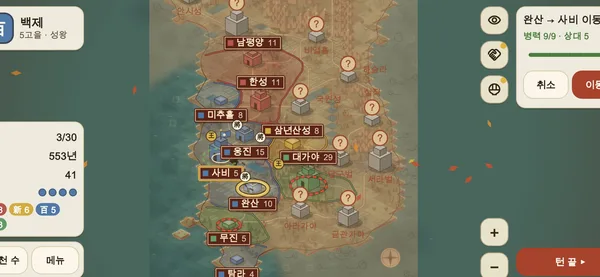
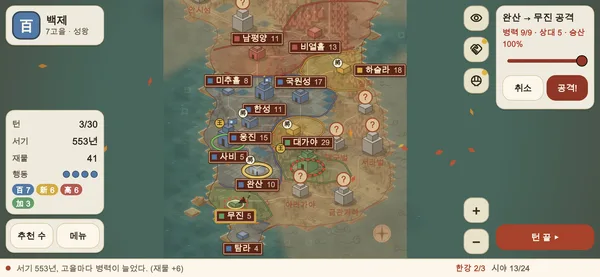
release: 1.0.0+30 개발소식

diff --git a/ko/releases/index.html b/ko/releases/index.html
@@ -61,6 +61,16 @@
       <p class="callout">아직 출시 전입니다. 이 페이지는 TestFlight 로 올라가는 개발 빌드마다 바뀐 점을 플레이어가 알아보기 쉬운 말로 적습니다. 최신 빌드가 맨 위입니다.</p>
       <div class="rel-list">
       <article class="rel">
+        <h2 class="rel__head"><span class="rel__build">1.0.0+30</span></h2>
+        <p class="rel__at">2026-10-29 15:47 KST</p>
+        <ul>
+          <li>판 결과 · 내 장수 카드 · 명장 초상을 이미지로 만들어 공유할 수 있어요. 결과 창 · 카드 보기 · 열전에서 「공유하기」를 누르면 돼요. 이미지는 이 기기 안에서만 만들어요.</li>
+          <li>준비 중인 551년 새 판에 고유한 승리 조건이 생겼어요. 한성 · 미추홀 · 국원성 세 고을을 빼앗아 3라운드 내리 지키면 이기고, 처음 쥔 고구려는 끝까지 지키면 이겨요. 소식 줄에서 진행을 볼 수 있어요.</li>
+          <li>다른 기기에서 이어 하기를 위한 저장 맞추기 기반을 넣었어요(아직 꺼 둔 상태예요).</li>
+          <li>새 문구를 11개 언어 모두에 넣었어요.</li>
+        </ul>
+      </article>
+      <article class="rel">
         <h2 class="rel__head"><span class="rel__build">1.0.0+29</span></h2>
         <p class="rel__at">2026-10-29 15:00 KST</p>
         <ul>

diff --git a/de/releases/index.html b/de/releases/index.html
@@ -62,6 +62,16 @@
       <p class="callout">Iltonggi is not released yet. This page lists, in plain words, what changed in each development build we send to TestFlight. The newest build is at the top.</p>
       <div class="rel-list">
       <article class="rel">
+        <h2 class="rel__head"><span class="rel__build">1.0.0+30</span></h2>
+        <p class="rel__at">2026-10-29 15:47 KST</p>
+        <ul>
+          <li>You can now share your game result, your general&#x27;s card, or a famous general&#x27;s portrait as an image. Tap &quot;Share&quot; in the results window, the card view, or the biography. The image is made only on your device.</li>
+          <li>The new game set in 551 now has its own victory condition: capture Hanseong, Michuhol and Gugwonseong and hold all three for 3 rounds in a row. Goguryeo, which starts with them, wins by keeping them to the end. Progress shows in the news bar.</li>
+          <li>We added the groundwork for continuing your game on another device (switched off for now).</li>
+          <li>The new messages are available in all 11 languages.</li>
+        </ul>
+      </article>
+      <article class="rel">
         <h2 class="rel__head"><span class="rel__build">1.0.0+29</span></h2>
         <p class="rel__at">2026-10-29 15:00 KST</p>
         <ul>

diff --git a/en/releases/index.html b/en/releases/index.html
@@ -61,6 +61,16 @@
       <p class="callout">Iltonggi is not released yet. This page lists, in plain words, what changed in each development build we send to TestFlight. The newest build is at the top.</p>
       <div class="rel-list">
       <article class="rel">
+        <h2 class="rel__head"><span class="rel__build">1.0.0+30</span></h2>
+        <p class="rel__at">2026-10-29 15:47 KST</p>
+        <ul>
+          <li>You can now share your game result, your general&#x27;s card, or a famous general&#x27;s portrait as an image. Tap &quot;Share&quot; in the results window, the card view, or the biography. The image is made only on your device.</li>
+          <li>The new game set in 551 now has its own victory condition: capture Hanseong, Michuhol and Gugwonseong and hold all three for 3 rounds in a row. Goguryeo, which starts with them, wins by keeping them to the end. Progress shows in the news bar.</li>
+          <li>We added the groundwork for continuing your game on another device (switched off for now).</li>
+          <li>The new messages are available in all 11 languages.</li>
+        </ul>
+      </article>
+      <article class="rel">
         <h2 class="rel__head"><span class="rel__build">1.0.0+29</span></h2>
         <p class="rel__at">2026-10-29 15:00 KST</p>
         <ul>

diff --git a/es/releases/index.html b/es/releases/index.html
@@ -62,6 +62,16 @@
       <p class="callout">Iltonggi is not released yet. This page lists, in plain words, what changed in each development build we send to TestFlight. The newest build is at the top.</p>
       <div class="rel-list">
       <article class="rel">
+        <h2 class="rel__head"><span class="rel__build">1.0.0+30</span></h2>
+        <p class="rel__at">2026-10-29 15:47 KST</p>
+        <ul>
+          <li>You can now share your game result, your general&#x27;s card, or a famous general&#x27;s portrait as an image. Tap &quot;Share&quot; in the results window, the card view, or the biography. The image is made only on your device.</li>
+          <li>The new game set in 551 now has its own victory condition: capture Hanseong, Michuhol and Gugwonseong and hold all three for 3 rounds in a row. Goguryeo, which starts with them, wins by keeping them to the end. Progress shows in the news bar.</li>
+          <li>We added the groundwork for continuing your game on another device (switched off for now).</li>
+          <li>The new messages are available in all 11 languages.</li>
+        </ul>
+      </article>
+      <article class="rel">
         <h2 class="rel__head"><span class="rel__build">1.0.0+29</span></h2>
         <p class="rel__at">2026-10-29 15:00 KST</p>
         <ul>

diff --git a/fr/releases/index.html b/fr/releases/index.html
@@ -62,6 +62,16 @@
       <p class="callout">Iltonggi is not released yet. This page lists, in plain words, what changed in each development build we send to TestFlight. The newest build is at the top.</p>
       <div class="rel-list">
       <article class="rel">
+        <h2 class="rel__head"><span class="rel__build">1.0.0+30</span></h2>
+        <p class="rel__at">2026-10-29 15:47 KST</p>
+        <ul>
+          <li>You can now share your game result, your general&#x27;s card, or a famous general&#x27;s portrait as an image. Tap &quot;Share&quot; in the results window, the card view, or the biography. The image is made only on your device.</li>
+          <li>The new game set in 551 now has its own victory condition: capture Hanseong, Michuhol and Gugwonseong and hold all three for 3 rounds in a row. Goguryeo, which starts with them, wins by keeping them to the end. Progress shows in the news bar.</li>
+          <li>We added the groundwork for continuing your game on another device (switched off for now).</li>
+          <li>The new messages are available in all 11 languages.</li>
+        </ul>
+      </article>
+      <article class="rel">
         <h2 class="rel__head"><span class="rel__build">1.0.0+29</span></h2>
         <p class="rel__at">2026-10-29 15:00 KST</p>
         <ul>

diff --git a/id/releases/index.html b/id/releases/index.html
@@ -62,6 +62,16 @@
       <p class="callout">Iltonggi is not released yet. This page lists, in plain words, what changed in each development build we send to TestFlight. The newest build is at the top.</p>
       <div class="rel-list">
       <article class="rel">
+        <h2 class="rel__head"><span class="rel__build">1.0.0+30</span></h2>
+        <p class="rel__at">2026-10-29 15:47 KST</p>
+        <ul>
+          <li>You can now share your game result, your general&#x27;s card, or a famous general&#x27;s portrait as an image. Tap &quot;Share&quot; in the results window, the card view, or the biography. The image is made only on your device.</li>
+          <li>The new game set in 551 now has its own victory condition: capture Hanseong, Michuhol and Gugwonseong and hold all three for 3 rounds in a row. Goguryeo, which starts with them, wins by keeping them to the end. Progress shows in the news bar.</li>
+          <li>We added the groundwork for continuing your game on another device (switched off for now).</li>
+          <li>The new messages are available in all 11 languages.</li>
+        </ul>
+      </article>
+      <article class="rel">
         <h2 class="rel__head"><span class="rel__build">1.0.0+29</span></h2>
         <p class="rel__at">2026-10-29 15:00 KST</p>
         <ul>

diff --git a/ja/releases/index.html b/ja/releases/index.html
@@ -62,6 +62,16 @@
       <p class="callout">Iltonggi is not released yet. This page lists, in plain words, what changed in each development build we send to TestFlight. The newest build is at the top.</p>
       <div class="rel-list">
       <article class="rel">
+        <h2 class="rel__head"><span class="rel__build">1.0.0+30</span></h2>
+        <p class="rel__at">2026-10-29 15:47 KST</p>
+        <ul>
+          <li>You can now share your game result, your general&#x27;s card, or a famous general&#x27;s portrait as an image. Tap &quot;Share&quot; in the results window, the card view, or the biography. The image is made only on your device.</li>
+          <li>The new game set in 551 now has its own victory condition: capture Hanseong, Michuhol and Gugwonseong and hold all three for 3 rounds in a row. Goguryeo, which starts with them, wins by keeping them to the end. Progress shows in the news bar.</li>
+          <li>We added the groundwork for continuing your game on another device (switched off for now).</li>
+          <li>The new messages are available in all 11 languages.</li>
+        </ul>
+      </article>
+      <article class="rel">
         <h2 class="rel__head"><span class="rel__build">1.0.0+29</span></h2>
         <p class="rel__at">2026-10-29 15:00 KST</p>
         <ul>

diff --git a/pt/releases/index.html b/pt/releases/index.html
@@ -62,6 +62,16 @@
       <p class="callout">Iltonggi is not released yet. This page lists, in plain words, what changed in each development build we send to TestFlight. The newest build is at the top.</p>
       <div class="rel-list">
       <article class="rel">
+        <h2 class="rel__head"><span class="rel__build">1.0.0+30</span></h2>
+        <p class="rel__at">2026-10-29 15:47 KST</p>
+        <ul>
+          <li>You can now share your game result, your general&#x27;s card, or a famous general&#x27;s portrait as an image. Tap &quot;Share&quot; in the results window, the card view, or the biography. The image is made only on your device.</li>
+          <li>The new game set in 551 now has its own victory condition: capture Hanseong, Michuhol and Gugwonseong and hold all three for 3 rounds in a row. Goguryeo, which starts with them, wins by keeping them to the end. Progress shows in the news bar.</li>
+          <li>We added the groundwork for continuing your game on another device (switched off for now).</li>
+          <li>The new messages are available in all 11 languages.</li>
+        </ul>
+      </article>
+      <article class="rel">
         <h2 class="rel__head"><span class="rel__build">1.0.0+29</span></h2>
         <p class="rel__at">2026-10-29 15:00 KST</p>
         <ul>

diff --git a/releases/index.html b/releases/index.html
@@ -61,6 +61,16 @@
       <p class="callout">Iltonggi is not released yet. This page lists, in plain words, what changed in each development build we send to TestFlight. The newest build is at the top.</p>
       <div class="rel-list">
       <article class="rel">
+        <h2 class="rel__head"><span class="rel__build">1.0.0+30</span></h2>
+        <p class="rel__at">2026-10-29 15:47 KST</p>
+        <ul>
+          <li>You can now share your game result, your general&#x27;s card, or a famous general&#x27;s portrait as an image. Tap &quot;Share&quot; in the results window, the card view, or the biography. The image is made only on your device.</li>
+          <li>The new game set in 551 now has its own victory condition: capture Hanseong, Michuhol and Gugwonseong and hold all three for 3 rounds in a row. Goguryeo, which starts with them, wins by keeping them to the end. Progress shows in the news bar.</li>
+          <li>We added the groundwork for continuing your game on another device (switched off for now).</li>
+          <li>The new messages are available in all 11 languages.</li>
+        </ul>
+      </article>
+      <article class="rel">
         <h2 class="rel__head"><span class="rel__build">1.0.0+29</span></h2>
         <p class="rel__at">2026-10-29 15:00 KST</p>
         <ul>

diff --git a/ru/releases/index.html b/ru/releases/index.html
@@ -62,6 +62,16 @@
       <p class="callout">Iltonggi is not released yet. This page lists, in plain words, what changed in each development build we send to TestFlight. The newest build is at the top.</p>
       <div class="rel-list">
       <article class="rel">
+        <h2 class="rel__head"><span class="rel__build">1.0.0+30</span></h2>
+        <p class="rel__at">2026-10-29 15:47 KST</p>
+        <ul>
+          <li>You can now share your game result, your general&#x27;s card, or a famous general&#x27;s portrait as an image. Tap &quot;Share&quot; in the results window, the card view, or the biography. The image is made only on your device.</li>
+          <li>The new game set in 551 now has its own victory condition: capture Hanseong, Michuhol and Gugwonseong and hold all three for 3 rounds in a row. Goguryeo, which starts with them, wins by keeping them to the end. Progress shows in the news bar.</li>
+          <li>We added the groundwork for continuing your game on another device (switched off for now).</li>
+          <li>The new messages are available in all 11 languages.</li>
+        </ul>
+      </article>
+      <article class="rel">
         <h2 class="rel__head"><span class="rel__build">1.0.0+29</span></h2>
         <p class="rel__at">2026-10-29 15:00 KST</p>
         <ul>

diff --git a/vi/releases/index.html b/vi/releases/index.html
@@ -62,6 +62,16 @@
       <p class="callout">Iltonggi is not released yet. This page lists, in plain words, what changed in each development build we send to TestFlight. The newest build is at the top.</p>
       <div class="rel-list">
       <article class="rel">
+        <h2 class="rel__head"><span class="rel__build">1.0.0+30</span></h2>
+        <p class="rel__at">2026-10-29 15:47 KST</p>
+        <ul>
+          <li>You can now share your game result, your general&#x27;s card, or a famous general&#x27;s portrait as an image. Tap &quot;Share&quot; in the results window, the card view, or the biography. The image is made only on your device.</li>
+          <li>The new game set in 551 now has its own victory condition: capture Hanseong, Michuhol and Gugwonseong and hold all three for 3 rounds in a row. Goguryeo, which starts with them, wins by keeping them to the end. Progress shows in the news bar.</li>
+          <li>We added the groundwork for continuing your game on another device (switched off for now).</li>
+          <li>The new messages are available in all 11 languages.</li>
+        </ul>
+      </article>
+      <article class="rel">
         <h2 class="rel__head"><span class="rel__build">1.0.0+29</span></h2>
         <p class="rel__at">2026-10-29 15:00 KST</p>
         <ul>

diff --git a/zh/releases/index.html b/zh/releases/index.html
@@ -62,6 +62,16 @@
       <p class="callout">Iltonggi is not released yet. This page lists, in plain words, what changed in each development build we send to TestFlight. The newest build is at the top.</p>
       <div class="rel-list">
       <article class="rel">
+        <h2 class="rel__head"><span class="rel__build">1.0.0+30</span></h2>
+        <p class="rel__at">2026-10-29 15:47 KST</p>
+        <ul>
+          <li>You can now share your game result, your general&#x27;s card, or a famous general&#x27;s portrait as an image. Tap &quot;Share&quot; in the results window, the card view, or the biography. The image is made only on your device.</li>
+          <li>The new game set in 551 now has its own victory condition: capture Hanseong, Michuhol and Gugwonseong and hold all three for 3 rounds in a row. Goguryeo, which starts with them, wins by keeping them to the end. Progress shows in the news bar.</li>
+          <li>We added the groundwork for continuing your game on another device (switched off for now).</li>
+          <li>The new messages are available in all 11 languages.</li>
+        </ul>
+      </article>
+      <article class="rel">
         <h2 class="rel__head"><span class="rel__build">1.0.0+29</span></h2>
         <p class="rel__at">2026-10-29 15:00 KST</p>
         <ul>
